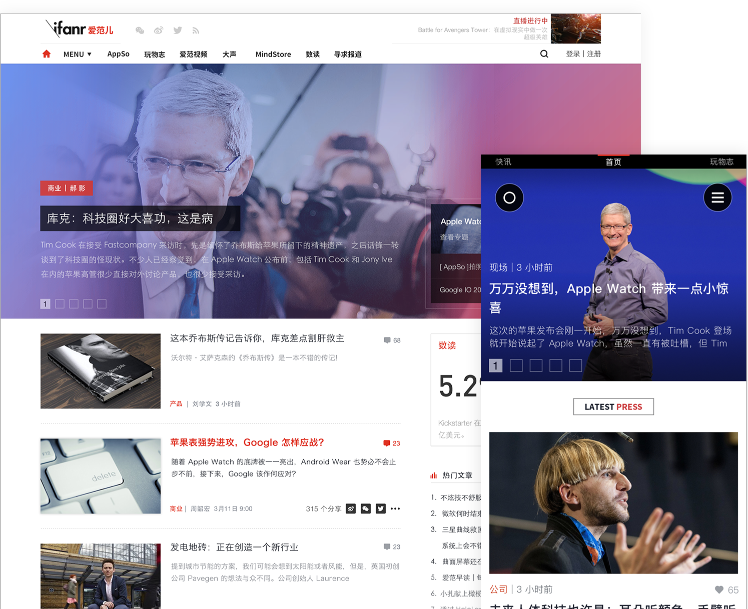
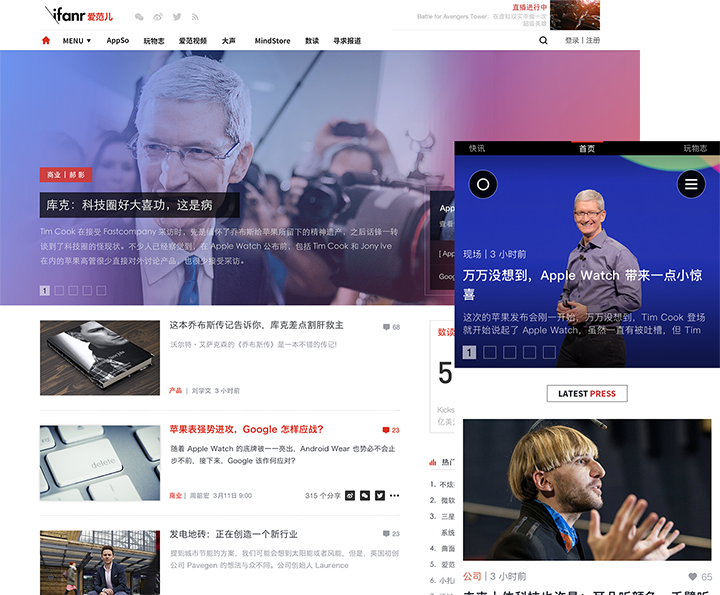
Update images and styles

Changed region(s): [[0.0, 0.0, 1.0, 1.0], [0.0306, 0.8773, 0.55, 1.0], [0.3972, 0.8168, 0.55, 0.8471]]

diff --git a/css/style.css b/css/style.css
@@ -138,7 +138,7 @@ a {
 	color: #343434;
 }
 .section-img {
-	padding-top: 190px;
+	padding-top: 210px;
 	text-align: right;
 	padding-right: 6.25%;
 }
@@ -479,10 +479,11 @@ a {
 		display: block;
 		position: absolute;
 		right: 6.4%;
-		top: 28px;
-		width: 24px;
-		height: 26px;
+		top: 18px;
+		width: 44px;
+		height: 42px;
 		z-index: 10;
+		padding: 10px;
 	}
 
 	#toggle span:after,
@@ -490,10 +491,10 @@ a {
 		content: "";
 		position: absolute;
 		left: 0;
-		top: -9px;
+		top: -8px;
 	}
 	#toggle span:after{
-		top: 9px;
+		top: 8px;
 	}
 	#toggle span {
 		position: relative;
@@ -518,7 +519,7 @@ a {
 		transform: rotate(45deg) translate(5px, 5px);
 	}
 	#toggle.on span:after {
-		transform: rotate(-45deg) translate(7px, -8px);
+		transform: rotate(-45deg) translate(7px, -7px);
 	}
 	#toggle.on,
 	#menu.on {
@@ -710,15 +711,15 @@ a {
 		height: auto;
 		padding: 56px 6.4%;
 	}
+	.intro p, .quote-content {
+		line-height: 31.5px;
+	}
 }
 
 @media (min-width: 1280px) {
 	.container {
 		margin: 0 auto;
 		width: 1280px;
-	}
-	#section {
-
 	}
 	.section-screenshots {
 		padding: 60px 0 60px 9.125%;
